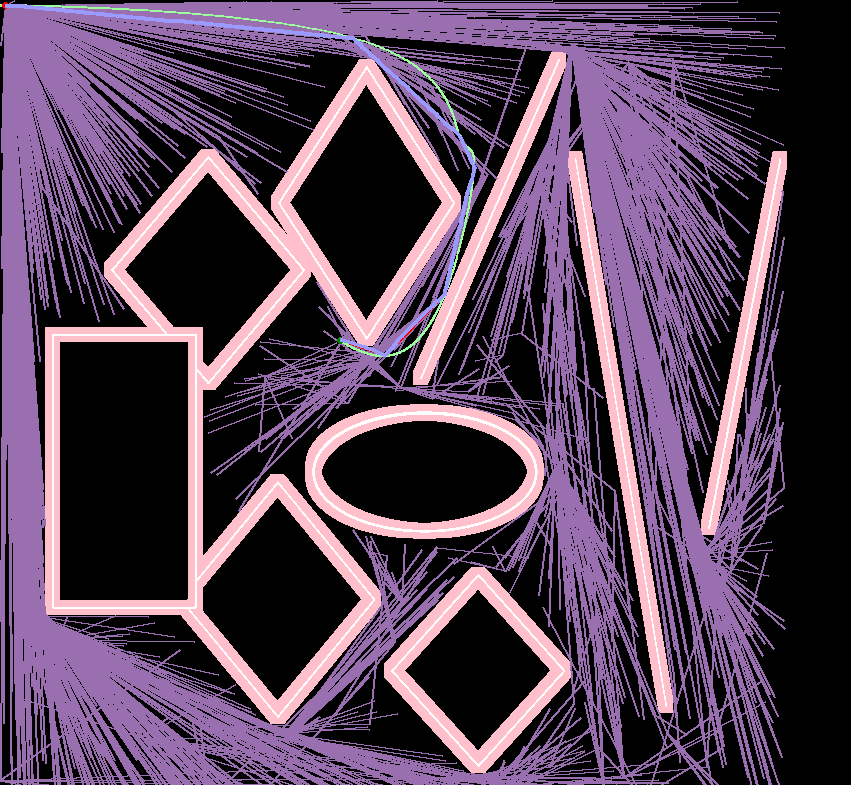
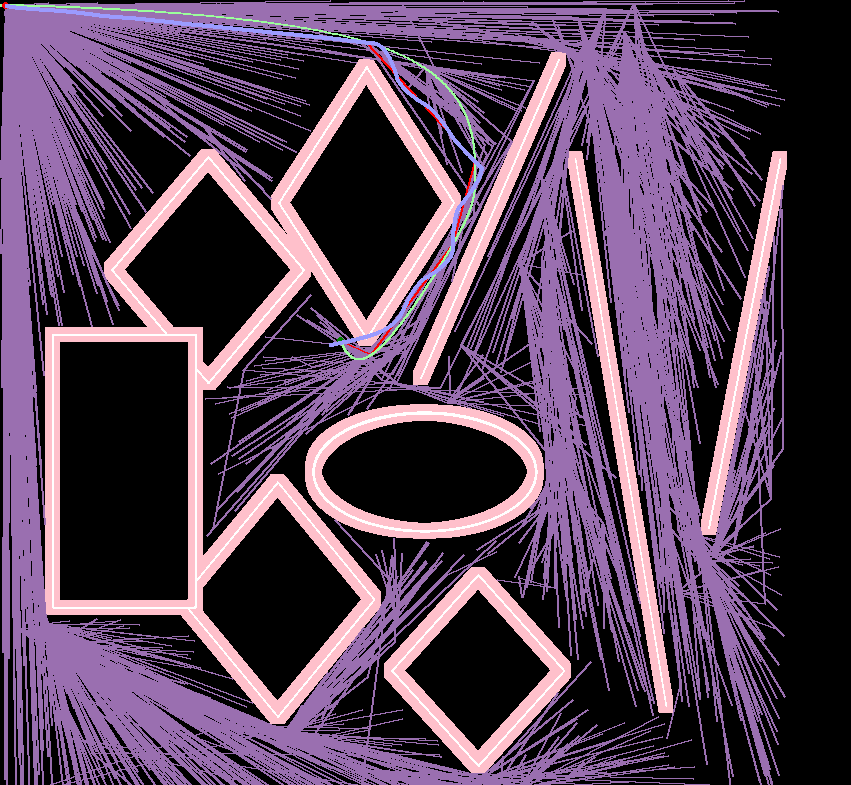
Backup before super cool idea

Changed region(s): [[0.0, 0.0, 0.9471, 1.0]]

diff --git a/main.py b/main.py
@@ -18,9 +18,6 @@ if config.debug:
     pygame.init()
     screen = pygame.display.set_mode((len(grid[0]), len(grid)))
 
-pygame.init()
-screen = pygame.display.set_mode((len(grid[0]), len(grid)))
-
 algo_options = {
     "rrt_sid": rrt_sid,
     "rrt_star": rrt_star
@@ -39,25 +36,28 @@ global_path = algo_options[config.algo](
 for i in range(len(global_path)):
     global_path[i] = (global_path[i][0], global_path[i][1], 0, 0)
 
-global_path = waypoints_gen(global_path, 20)
+global_path = waypoints_gen(global_path, 40)
 
-local_planner = LocalPlanner(.5, 5)
+local_planner = LocalPlanner(.01, 10)
 local_path = []
 
 render_local_path_on_image([], config.out_path, 'test.png')
 
 for i in range(len(global_path) - 1):
+    local_planner = LocalPlanner(.05, 4)
     solution, state, u = local_planner.find_path(global_path[i], global_path[i + 1], [])
     path = local_planner.get_path_coords(solution, state)
     global_path[i+1] = path[-1]
     local_path.extend(path)
 
-    render_local_path_on_image(path, "test.png", "test.png")
-    imp = pygame.image.load("test.png").convert()
-    screen.blit(imp, (0, 0))
-    pygame.display.flip()
-
-x = input()
+    render_local_path_on_image(local_path, config.out_path, 'test.png')
+    if config.debug:
+        imp = pygame.image.load('test.png').convert()
+        screen.blit(imp, (0, 0))
+        pygame.display.flip()
 
 print("Finished in:")
 print(f"{time.time() - start_time} seconds.")
+
+if config.debug:
+    x = input()

diff --git a/local_sim/path.py b/local_sim/path.py
@@ -58,8 +58,8 @@ class LocalPlanner:
 
         # Apply acceleration bounds
         for i in range(self.N - 1):
-            self.optimizer.subject_to(self.optimizer.bounded(-25, u[0, i], 25))
-            self.optimizer.subject_to(self.optimizer.bounded(-25, u[1, i], 25))
+            self.optimizer.subject_to(self.optimizer.bounded(-10, u[0, i], 10))
+            self.optimizer.subject_to(self.optimizer.bounded(-10, u[1, i], 10))
 
         # Calculate solution
         opts = {'ipopt.print_level': 0, 'print_time': 0, 'ipopt.sb': 'yes'}
@@ -81,15 +81,15 @@ class LocalPlanner:
         return path
 
 
-start_state = [0, 0, 0, 0]
-end_state = [4, 4, 0, 0]
-
-obstacles = [
-    Obstacle(1.5, 1.5, 1),
-    Obstacle(2.5, 2.5, .3),
-    Obstacle(3, 2, .5),
-    Obstacle(2.5, 4, .3)
-]
+# start_state = [0, 0, 0, 0]
+# end_state = [4, 4, 0, 0]
+#
+# obstacles = [
+#     Obstacle(1.5, 1.5, 1),
+#     Obstacle(2.5, 2.5, .3),
+#     Obstacle(3, 2, .5),
+#     Obstacle(2.5, 4, .3)
+# ]
 
 # planner = LocalPlanner(.05, 10)
 # solution, state, u = planner.find_path(start_state, end_state, obstacles)

diff --git a/utils/occupancy_grid.py b/utils/occupancy_grid.py
@@ -59,6 +59,9 @@ def line_gen(node_a: Node, node_b: Node, sampling_dist: float):
     dx = sampling_dist * math.cos(theta)
     dy = sampling_dist * math.sin(theta)
 
+    if dx == 0 or dy == 0:
+        return []
+
     num_samples = min(int(x_diff / dx), int(y_diff / dy))
 
     waypoints = []
